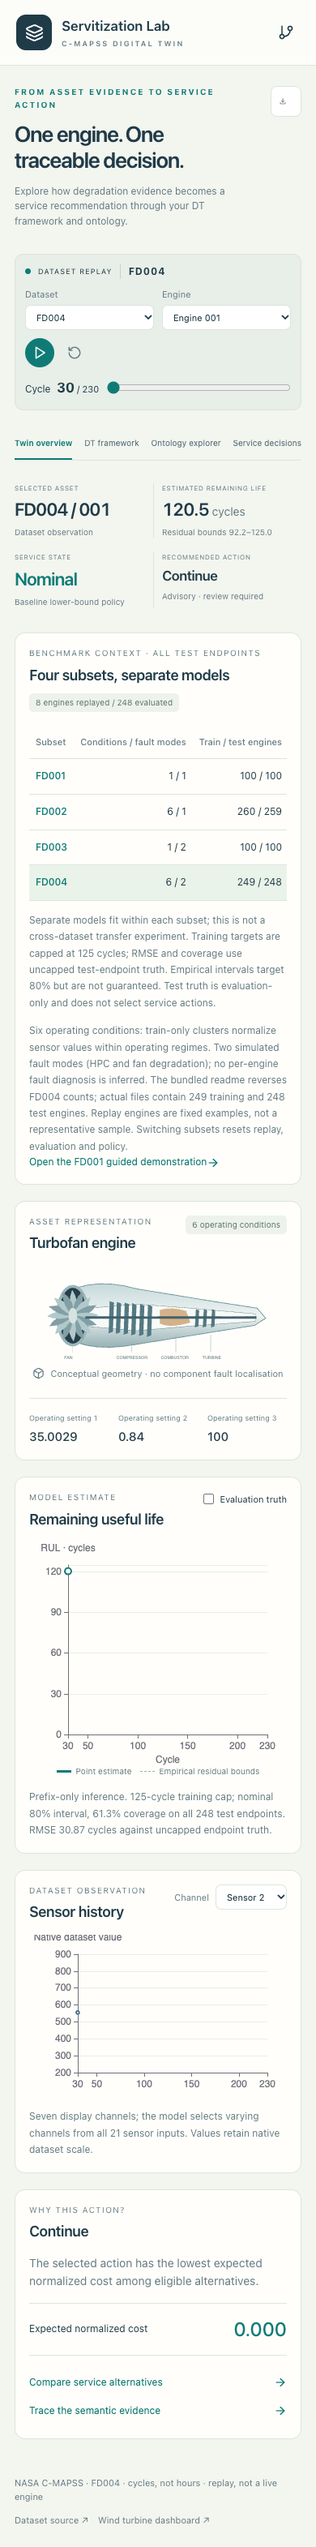
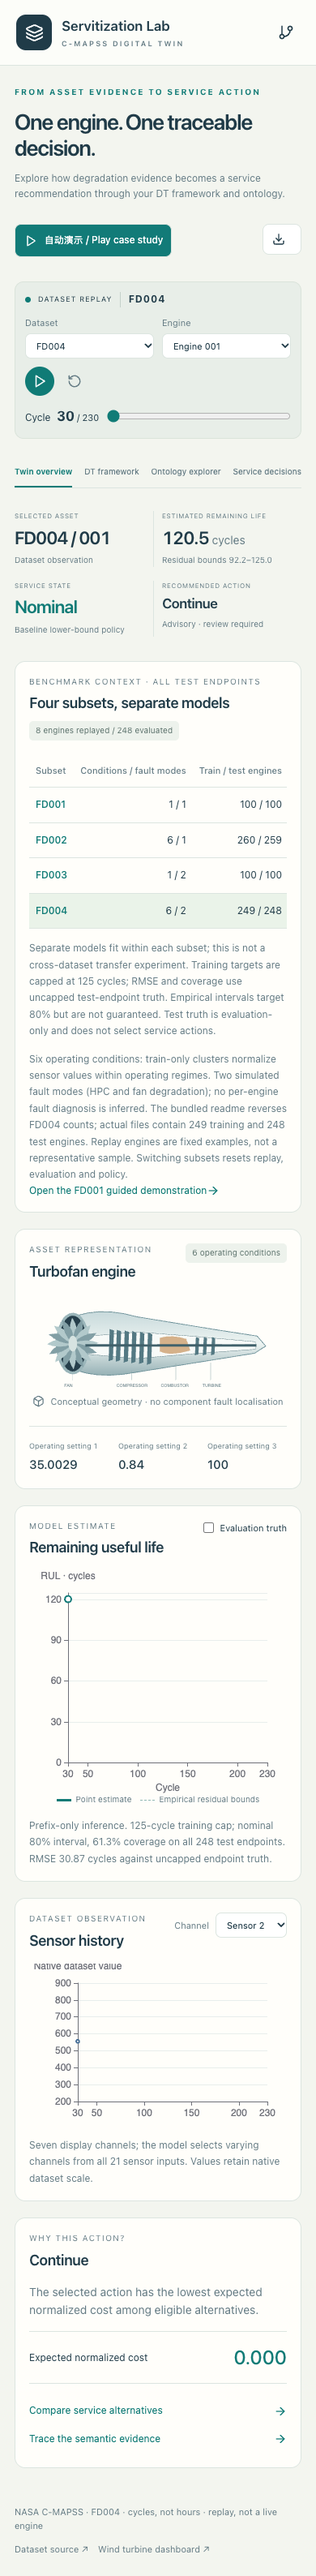
docs(cmapss): record animated study narrative and verified presentation

Changed region(s): [[0.0308, 0.0, 0.9538, 0.936]]

diff --git a/docs/cmapss/ANIMATED_STORY.md b/docs/cmapss/ANIMATED_STORY.md
@@ -1,0 +1,50 @@
+# Automatic case-study walkthrough (v0.5)
+
+The existing explorer now has **自动演示 / Play case study**, with a direct entry at `/cmapss/?story=1`. It opens an approximately three-minute, nine-scene Chinese-language explanation with English technical labels. It is a browser animation with a readable transcript, not a narrated video. The original explorer remains available and its selected dataset, cycle and policy are preserved when the story closes.
+
+## Narrative and contributions
+
+The story uses the preserved **FD001 / Engine 034** trajectory, independently of the explorer's current selection. This fixed identity is visible throughout. Four-subset endpoint coverage is introduced only at the conclusion to describe evaluation scope and limitations.
+
+| Scene | Evidence / activity | What the viewer learns |
+| --- | --- | --- |
+| 1. Research question | Cycle 30 and declared asset/contract context | RUL alone does not specify service responsibility. |
+| 2. Observe | Actual records, cycles 30–94 | The replay adapter fulfils data-acquisition responsibilities; observations retain asset and source context. |
+| 3. Estimate | Exported causal predictions, cycles 94–158 | The DTE estimate, residual interval and baseline service state are distinct from action selection. |
+| 4. Connect/query | Cycle 158; actual RDF, SHACL and SPARQL | Framework responsibilities are linked through typed objects, units and provenance. |
+| 5. Broken evidence | Remove the cycle unit from a test copy | SHACL detects incomplete evidence; the original physical data and prediction have not changed. |
+| 6. Contract costs | Fixed cycle 158 | Continue versus Enhanced Monitoring follows different assumed consequence costs, with neither intervention margin active. |
+| 7. Intervention margin | Fixed cycle 171; actual contract query | A lower bound between 15 and 25 cycles makes the stricter policy recommend Planned Maintenance. The separate KPI budget still misses the assumed 99% target. |
+| 8. Handoff | Cycle 181; actual baseline evidence query | The baseline also recommends maintenance. Recommendation remains proposed; authorization, execution and outcomes are absent. |
+| 9. Contributions/limits | Implementation evidence and all-subset coverage | Explain implemented contributions and limits without treating the prototype as proof of novelty or measured service benefit. |
+
+The persistent collaboration panel (alongside the evidence on wide screens, stacked below on smaller screens) maps five responsibility groups (OE/DCE/DTE/UE/CS) to asset, observation, estimate, contract/advice and provenance/validation concepts. Highlighting is a teaching device, not a network trace or an OWL inference visualization. The graph uses the actual relationship directions: observation → asset, window → observations, estimate → window, and recommendation → estimate, with model/source/contract/policy references stated alongside it.
+
+Three **implementation-level contributions** are presented:
+
+1. An executable mapping from servitization responsibilities to observation, prediction, policy and recommendation functions.
+2. Cycle-valued semantic evidence with provenance, real SPARQL and SHACL Core checks.
+3. Controlled contract comparisons that preserve technical evidence while explaining different advice.
+
+Their practical relevance is reviewable maintenance planning and explanation of service responsibility. The case does not establish theoretical novelty, complete ISO compliance, actual availability, savings, downtime reduction or intervention effectiveness. Those claims need evidence beyond this degradation dataset and, for novelty, comparison with prior research. Full-test endpoint coverage remains visible (78.0%, 67.2%, 69.0%, 61.3%); semantic conformance is not predictive accuracy.
+
+## Runtime behavior
+
+- Nine scenes last approximately 174 seconds in total at 1×, plus semantic loading/execution time. Speeds: 0.5×, 1×, 2×.
+- Sensor values and RUL frames are selected from existing exported records. No interpolation of prediction values, future truth or artificial damage is added. Playback is a time-compressed explanation, not live acquisition or in-browser model fitting.
+- The semantic scenes execute the existing browser engine against fixed, explicit snapshots. A scene's automatic timer waits for its expected result. Unexpected results or fetch/execution failures pause the player and show a retry control; a successful retry does not silently resume playback.
+- Pause/resume retains elapsed progress. Manual chapter/previous/next selection pauses. Restart clears this story session's check records. A hidden document pauses. Escape exits and removes the deep-link query parameter.
+- Reduced-motion preferences disable decorative fan/packet animations and transitions; the explicit player controls remain usable. The transcript offers a static reading path.
+- Export records dataset/model/source provenance, visited chapters, whether playback reached the end, and only semantic checks actually completed in this session, including RDF, query, report and SHA-256 hashes. A manual jump to the conclusion does not manufacture missing checks or claim every chapter was visited.
+
+## Reproduction and validation
+
+```sh
+npm run test:cmapss:story
+npm run build
+DASHBOARD_URL=http://127.0.0.1:5179/wt-servitization-dashboard/ \
+PLAYWRIGHT_MODULE=/path/to/playwright/index.mjs \
+CHROME_EXECUTABLE=/path/to/chrome node scripts/verify-cmapss-story-ui.mjs
+```
+
+The pure player test covers progression, waiting, pause/restart, observed-only frames, known action comparisons and all four actual semantic outcomes. The browser test runs the complete automatic sequence, verifies exported evidence, then checks manual scenes, failure/retry, direct entry/exit, reduced motion and 390/320px layouts. Screenshots and the machine-readable result are under `screenshots/cmapss-story/`.

diff --git a/docs/cmapss/IMPLEMENTATION_LOG.md b/docs/cmapss/IMPLEMENTATION_LOG.md
@@ -105,3 +105,19 @@ Deterministic data generation; prefix-only feature test; source hashes; action s
 - Integrated main through e3c6e98, retaining the latest turbine instrumentation, XGBoost and vibration work. Resolved package-script and ignore-list conflicts by preserving both sets of entries.
 - All source-ontology, turbine, model, XGBoost, vibration and C-MAPSS model/semantic/contract/dataset checks passed before release. Branch CI now also includes XGBoost and vibration checks.
 - Intended public entry: https://jerryma619.github.io/wt-servitization-dashboard/cmapss/ . Deployment and online verification will be recorded in the GitHub issue/PR after completion.
+
+## 2026-10-03 — automatic case-study story (v0.5)
+
+- User requested a full automatic animated explanation of the case, practical meaning, contributions and framework/ontology collaboration.
+- Added a nine-scene, approximately three-minute Chinese walkthrough with real FD001 Engine 034 records, causal prediction frames, two controlled contract examples, framework/ontology mapping and a contribution/limitation conclusion.
+- Semantic scenes execute actual RDF/SHACL/SPARQL. The broken-copy scene removes the cycle unit and expects a genuine violation. Automatic progress waits for execution; errors pause and permit retry.
+- Added playback speed, pause/resume/restart, manual chapters, background pause, reduced-motion support, readable transcript, direct `?story=1` entry and export of actual session checks with hashes. Exiting restores the explorer; physical actions and benefits remain unasserted.
+- Methodology, narrative and precise contribution scope: ANIMATED_STORY.md. Validation results follow below.
+
+### v0.5 final local verification
+
+- The complete nine-scene automatic sequence passed against the production preview, including all four executed semantic checks, known contract decisions, completion, pause/resume/restart, chapter selection and evidence export with hashes.
+- Browser checks passed for direct `?story=1` entry, Escape exit, preserved explorer snapshot, failed shape-file fetch/retry, reduced motion and 390/320px layouts; zero page errors.
+- Visual QA corrected the play-button contrast and placed narration, evidence and collaboration alongside one another on wide screens. Final screenshots disable CSS transitions during capture; the full automatic sequence was rerun successfully after the changes.
+- Existing original and four-subset explorer browser suites were rerun successfully, including standard/enhanced wind-turbine route smoke checks. Dataset/semantic/contract suites and the new player tests passed. Build passed with existing bundle-size warnings.
+- Implementation commit: `184d45a`. PR #3 records this update; publication verification will be recorded there after deployment.

diff --git a/README.md b/README.md
@@ -183,3 +183,7 @@ Four Engine 034 milestone buttons connect the replay to framework, ontology and 
 ### C-MAPSS v0.4: FD001–FD004
 
 The `/cmapss/` demonstration now offers four separately fitted subset models, on-demand replay, full-test endpoint metrics and dataset-aware ontology/contract evidence. The existing FD001 guide is preserved. See [four-subset methodology and audit](docs/cmapss/MULTI_DATASET.md); original file counts, source hashes and all endpoint evaluation records are included. Run `npm run test:cmapss:datasets` for the new regression suite.
+
+### Automatic C-MAPSS case-study story
+
+Open `/cmapss/?story=1` or select **自动演示 / Play case study** for a roughly three-minute walkthrough of observed degradation, DT framework responsibilities, executable ontology evidence, contract decisions and scoped research contributions. It supports pause, chapters, speed, a transcript and real semantic-check exports. See [animated story design](docs/cmapss/ANIMATED_STORY.md).
